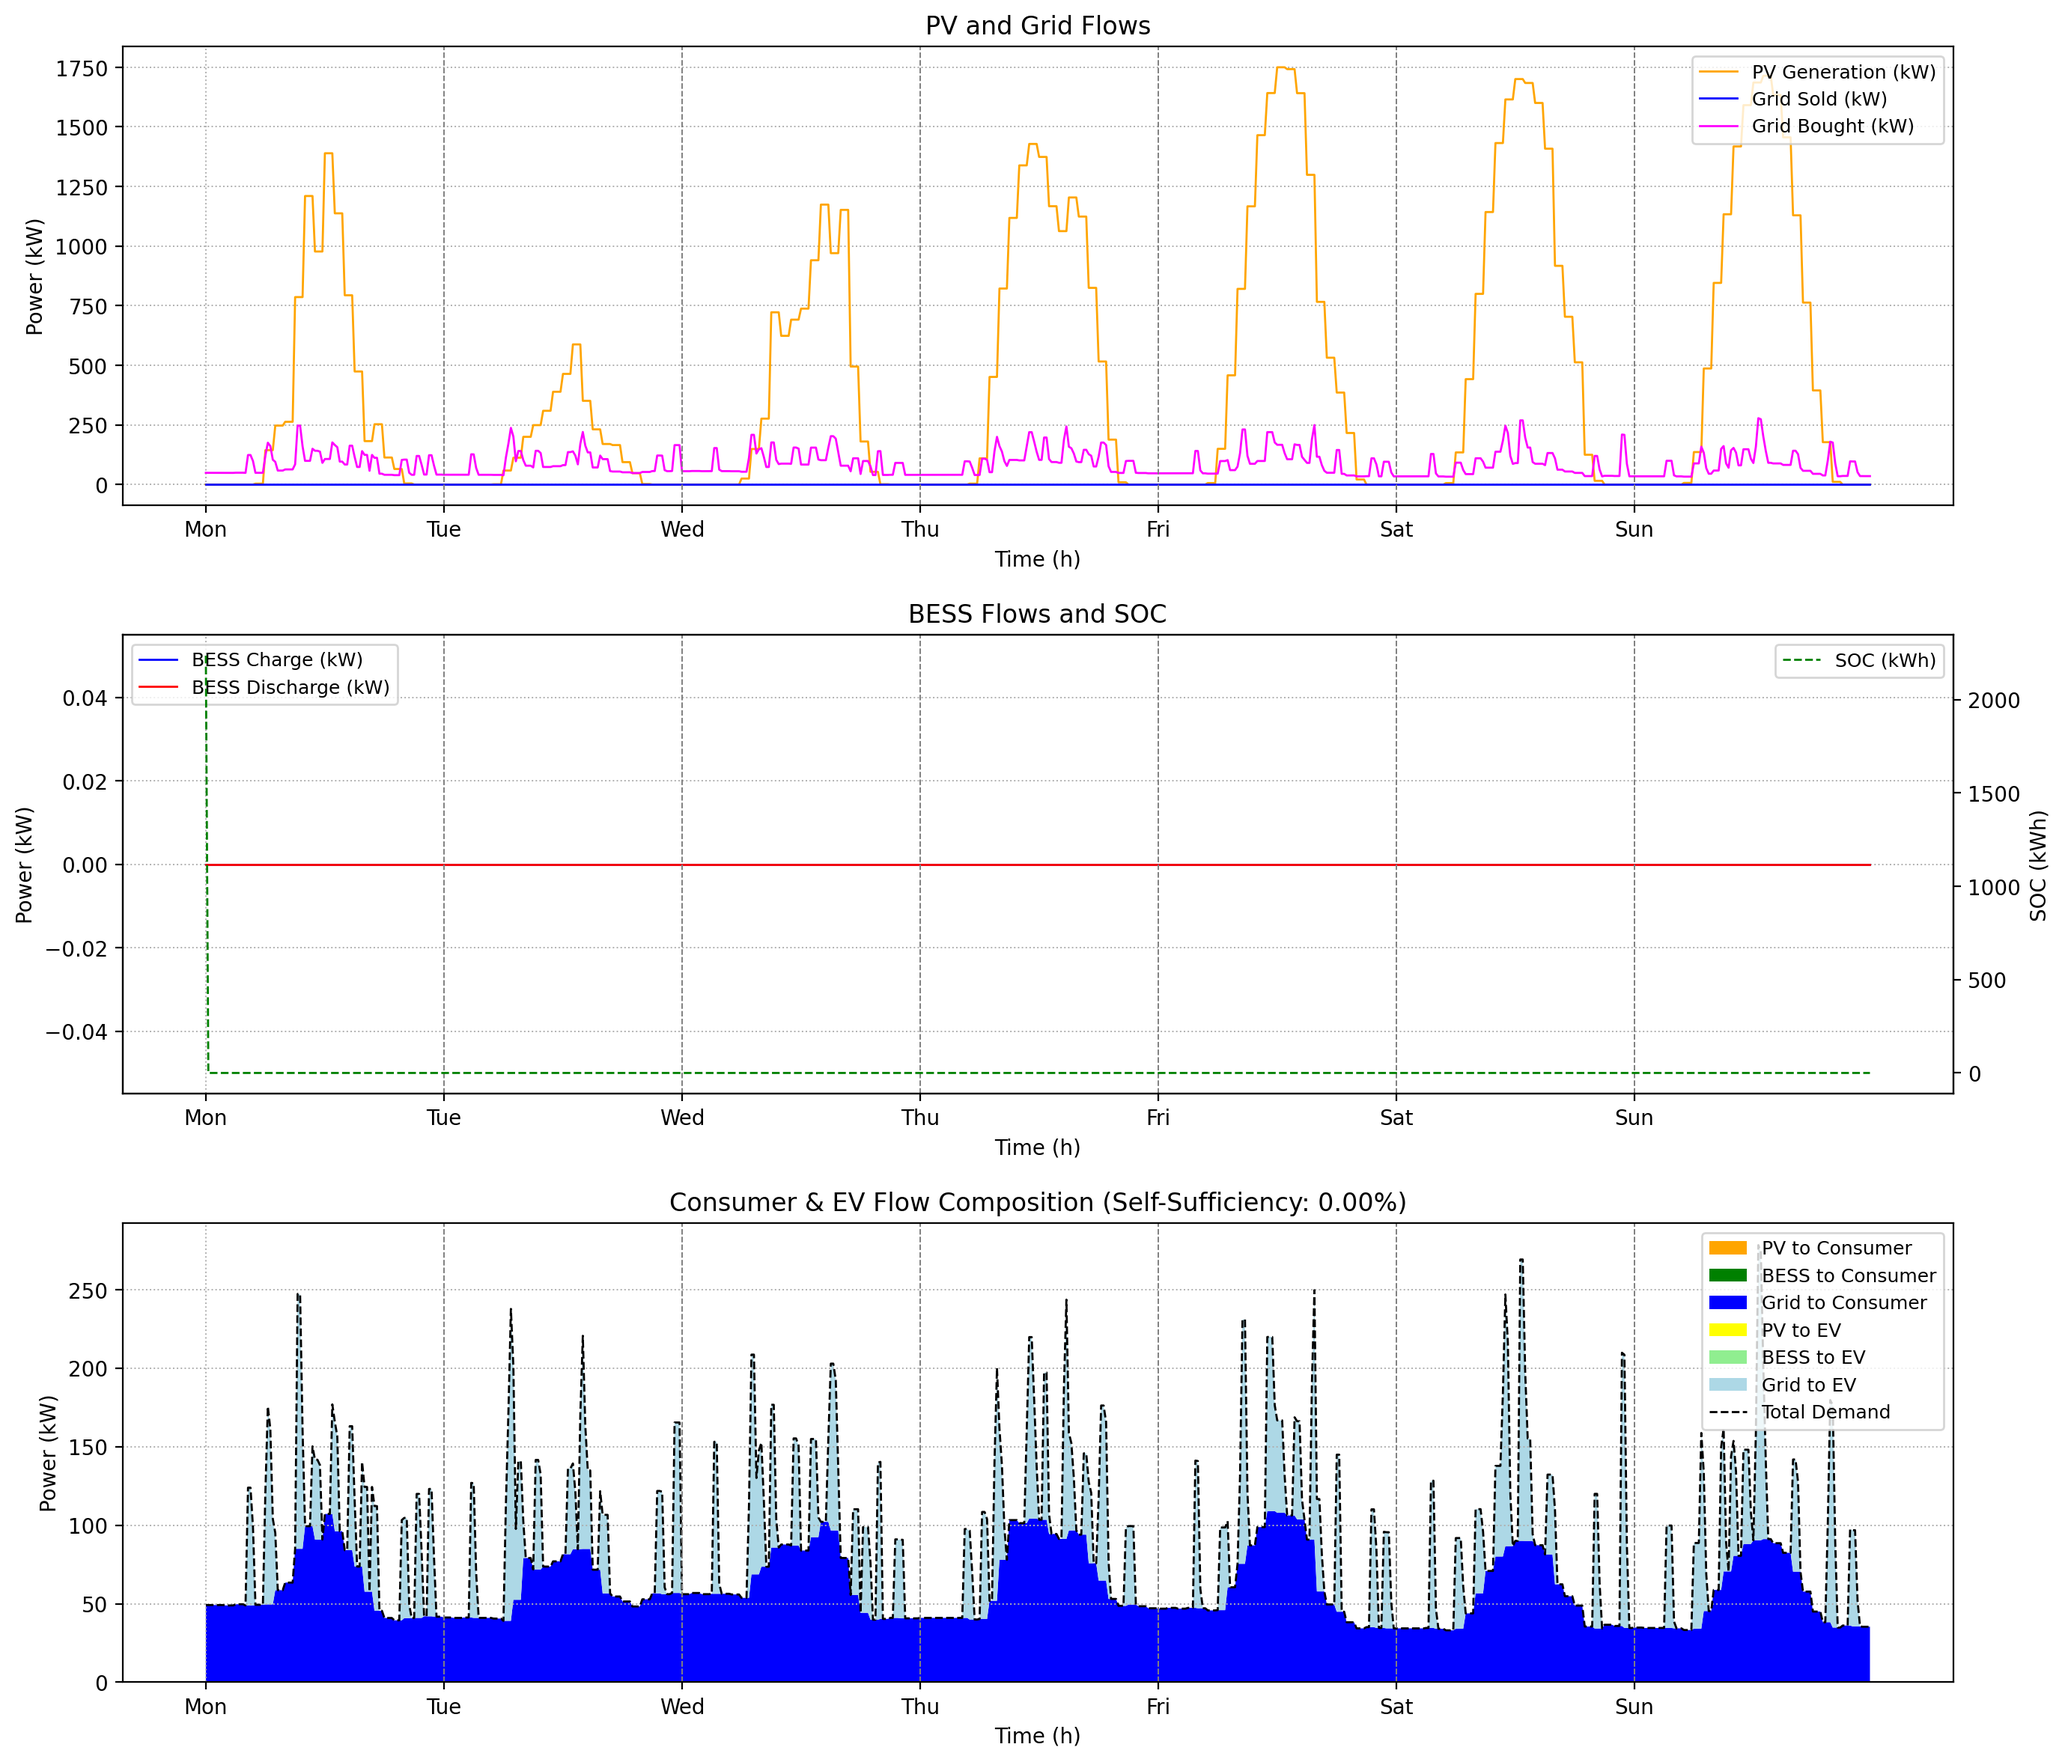
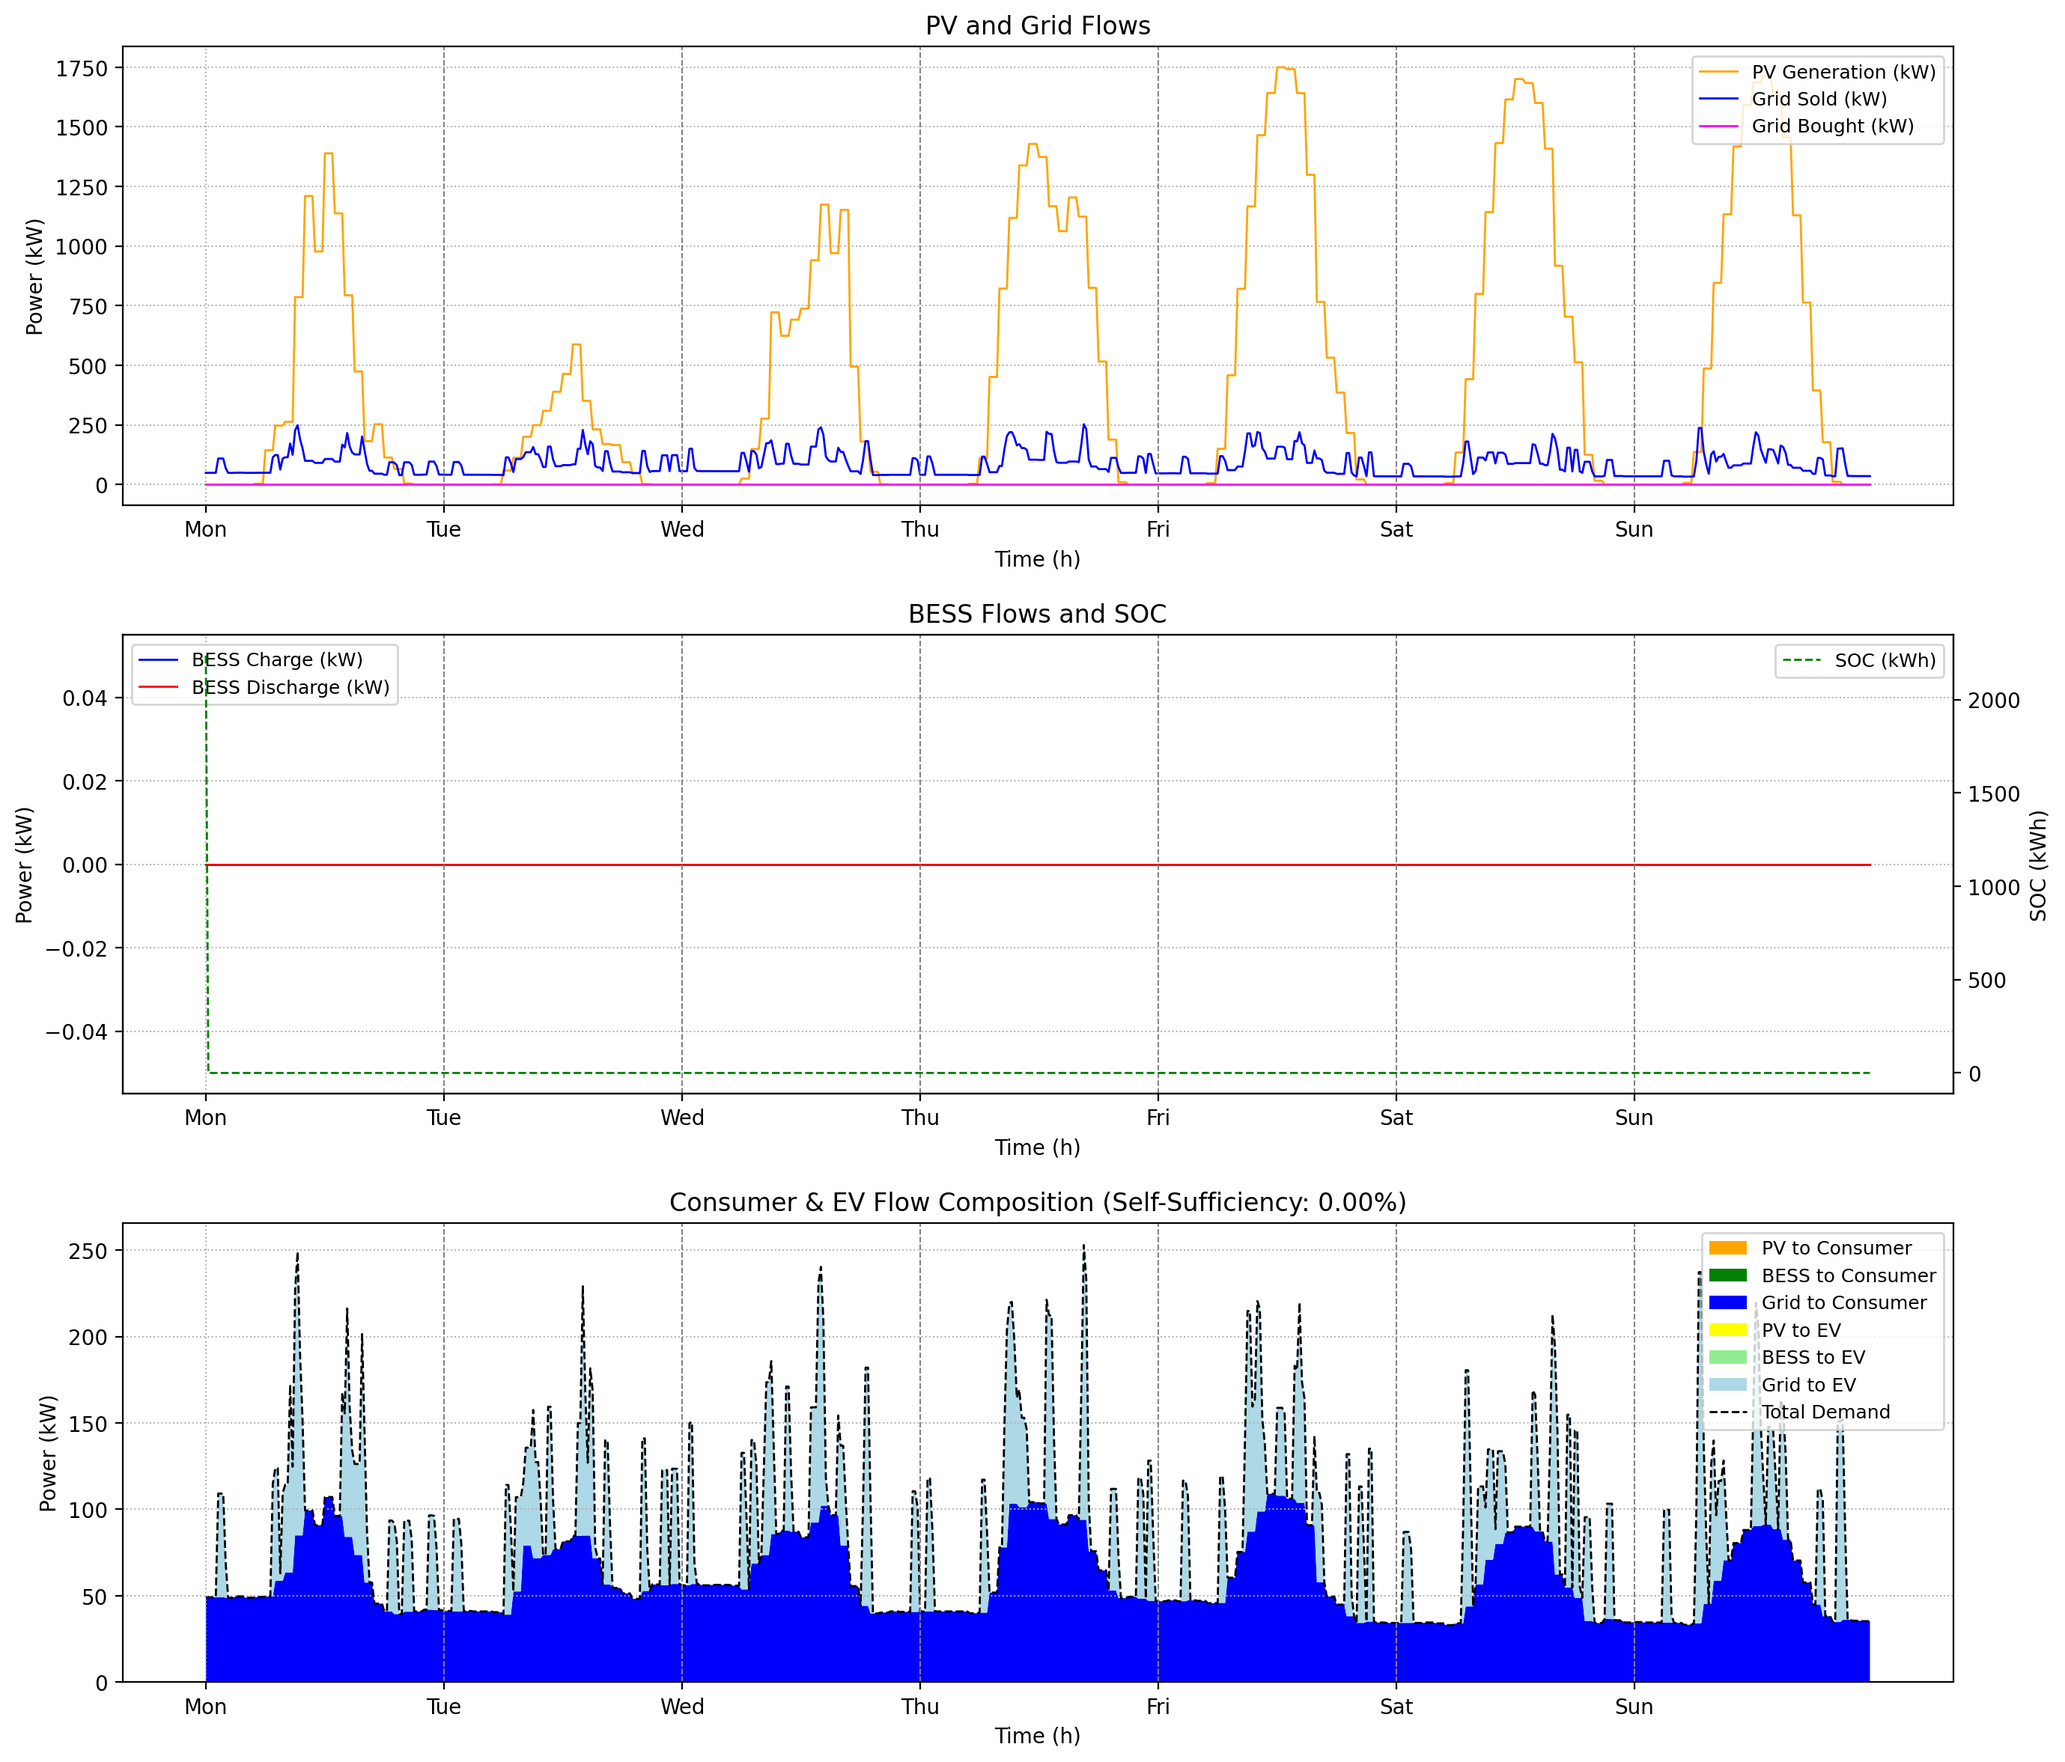
Push

diff --git a/Computing Files/mpc.py b/Computing Files/mpc.py
@@ -39,62 +39,74 @@ class MPC:
         # Add buses
         n.add("Bus", "AC")
         n.add("Bus", "DC")
+        n.add("Bus", "Grid")
 
-        # Add DC/AC converter (trafo)
-        n.add("Link", "DC_AC_Converter", bus0="DC", bus1="AC", p_nom=self.bess_power_limit*2, efficiency=0.98)
+        # Add DC/AC converter (trafo) with zero marginal cost
+        n.add("Link", "DC_AC_Converter", bus0="DC", bus1="AC", p_nom=self.bess_power_limit*2, efficiency=0.98, marginal_cost=0)
 
-        # Add PV generator (DC bus)
-        n.add("Generator", "PV", bus="DC", p_nom=max(pv_forecast), p_max_pu=pv_forecast/np.max(pv_forecast), marginal_cost=lcoe_pv)
+        # Add PV generator (DC bus) with zero marginal cost
+        n.add("Generator", "PV", bus="DC", p_nom=max(pv_forecast), p_max_pu=pv_forecast/np.max(pv_forecast), marginal_cost=0)
 
-        # Add BESS (DC bus) with zero marginal cost to enable arbitrage
+        # Add BESS (DC bus) with zero marginal cost
         n.add("StorageUnit", "BESS", bus="DC",
               p_nom=self.bess_power_limit,
               max_hours=self.bess_capacity/self.bess_power_limit,
               efficiency_store=self.eta_charge,
               efficiency_dispatch=self.eta_discharge,
-              marginal_cost=0,  # Set to zero to allow arbitrage
+              marginal_cost=0,  # Set to zero to allow full arbitrage
               state_of_charge_initial=soc/self.bess_capacity)
 
-        # Add grid import/export (AC bus) with scalar marginal_cost
-        n.add("Generator", "Grid_Import", bus="AC", p_nom=1e6, marginal_cost=0)
-        n.add("Generator", "Grid_Export", bus="AC", p_nom=1e6, marginal_cost=0)
+        # Add grid import/export as Links to Grid bus
+        n.add("Link", "Grid_Import", bus0="Grid", bus1="AC", p_nom=1e6, efficiency=1.0, marginal_cost=buy_forecast)
+        n.add("Link", "Grid_Export", bus0="AC", bus1="Grid", p_nom=1e6, efficiency=1.0, marginal_cost=-sell_forecast)
+
+        # Add infinite generator at Grid bus (reference)
+        n.add("Generator", "Grid_Source", bus="Grid", p_nom=1e6, marginal_cost=0)
 
         # Add consumer and EV loads (AC bus) with scalar p_set
         n.add("Load", "Consumer", bus="AC", p_set=0)
         n.add("Load", "EV", bus="AC", p_set=0)
 
-        # Assign time series to generators and loads
-        n.generators_t.marginal_cost.loc[:, "Grid_Import"] = buy_forecast
-        n.generators_t.marginal_cost.loc[:, "Grid_Export"] = -sell_forecast
+        # Assign time series to loads
         n.loads_t.p_set.loc[:, "Consumer"] = demand_forecast
         n.loads_t.p_set.loc[:, "EV"] = ev_forecast
 
         # Run linear optimal power flow (LOPF)
         n.optimize.create_model()
-        n.optimize.solve_model(solver_name="gurobi", verborse=True, MIPGap=0.025)
+        n.optimize.solve_model(solver_name="gurobi")
 
-        # Extract results for the first step (MPC receding horizon)
-        pv_to_dc = n.generators_t.p["PV"].values[0]
-        bess_to_dc = n.storage_units_t.p["BESS"].values[0]
-        grid_import = n.generators_t.p["Grid_Import"].values[0]
-        grid_export = n.generators_t.p["Grid_Export"].values[0]
+        # Extract flows for the first step (MPC receding horizon)
+        pv_gen = n.generators_t.p["PV"].values[0]
+        bess_dispatch = n.storage_units_t.p["BESS"].values[0]  # +ve: discharge, -ve: charge
+        soc_next = n.storage_units_t.state_of_charge["BESS"].values[1] * self.bess_capacity if len(n.storage_units_t.state_of_charge["BESS"]) > 1 else soc
+        link_dc_to_ac = n.links_t.p0["DC_AC_Converter"].values[0]  # Power from DC to AC (positive: DC->AC, negative: AC->DC)
+        grid_import = n.links_t.p0["Grid_Import"].values[0]  # Power from Grid to AC (positive: import)
+        grid_export = n.links_t.p0["Grid_Export"].values[0]  # Power from AC to Grid (positive: export)
         consumer_load = n.loads_t.p["Consumer"].values[0]
         ev_load = n.loads_t.p["EV"].values[0]
-        soc_next = n.storage_units_t.state_of_charge["BESS"].values[1] * self.bess_capacity if len(n.storage_units_t.state_of_charge["BESS"]) > 1 else soc
 
-        # For compatibility with the rest of the code, map flows to expected outputs
+        # Map physical flows at the inverter (AC) bus
+        total_ac_demand = consumer_load + ev_load
+        dc_to_ac_available = max(link_dc_to_ac, 0)  # Only positive flow (DC->AC)
+        pv_bess_to_consumer = min(dc_to_ac_available, consumer_load)
+        pv_bess_to_ev = min(max(0, dc_to_ac_available - pv_bess_to_consumer), ev_load)
+        pv_bess_to_grid = max(0, dc_to_ac_available - pv_bess_to_consumer - pv_bess_to_ev)
+        grid_to_consumer = max(0, consumer_load - pv_bess_to_consumer)
+        grid_to_ev = max(0, ev_load - pv_bess_to_ev)
+
         return {
-            'P_BESS': bess_to_dc,
+            'P_BESS': bess_dispatch,
             'SOC_next': soc_next,
-            'pv_to_consumer': min(pv_to_dc, consumer_load),
-            'pv_to_ev': min(pv_to_dc - min(pv_to_dc, consumer_load), ev_load),
-            'bess_to_consumer': 0,  # Not directly tracked in PyPSA, can be inferred from storage dispatch if needed
-            'bess_to_ev': 0,        # Not directly tracked in PyPSA, can be inferred from storage dispatch if needed
-            'bess_to_grid': 0,      # Not directly tracked in PyPSA, can be inferred from storage dispatch if needed
-            'pv_to_bess': 0,        # Not directly tracked in PyPSA, can be inferred from storage charging if needed
-            'pv_to_grid': max(0, pv_to_dc - consumer_load - ev_load),
-            'grid_to_consumer': max(0, consumer_load - pv_to_dc),
-            'grid_to_ev': max(0, ev_load - max(0, pv_to_dc - consumer_load)),
-            'grid_to_bess': 0,      # Not directly tracked in PyPSA, can be inferred from storage charging if needed
+            'P_BESS_discharge': np.maximum(bess_dispatch, 0),
+            'P_BESS_charge': np.abs(np.minimum(bess_dispatch, 0)),
+            'P_PV_gen': pv_gen,
+            'P_link_dc_to_ac': link_dc_to_ac,
+            'P_grid_import': grid_import,
+            'P_grid_export': grid_export,
+            'pv_bess_to_consumer': pv_bess_to_consumer,
+            'pv_bess_to_ev': pv_bess_to_ev,
+            'pv_bess_to_grid': pv_bess_to_grid,
+            'grid_to_consumer': grid_to_consumer,
+            'grid_to_ev': grid_to_ev,
             'slack': 0.0
         }

diff --git a/Computing Files/main_Optimization.py b/Computing Files/main_Optimization.py
@@ -43,6 +43,16 @@ mpc_controller = mpc.MPC(
 # Initialize arrays including EV-related variables
 soc_actual = np.zeros(data['n_steps'] + 1)
 soc_actual[0] = data['soc_initial']
+P_BESS_vals = np.zeros(data['n_steps'])
+P_BESS_discharge_vals = np.zeros(data['n_steps'])
+P_BESS_charge_vals = np.zeros(data['n_steps'])
+P_PV_gen_vals = np.zeros(data['n_steps'])
+P_link_dc_to_ac_vals = np.zeros(data['n_steps'])
+P_grid_import_vals = np.zeros(data['n_steps'])
+P_grid_export_vals = np.zeros(data['n_steps'])
+P_grid_consumer_vals = np.zeros(data['n_steps'])
+P_grid_ev_vals = np.zeros(data['n_steps'])
+# Old-style arrays for fallback and post-processing
 P_PV_consumer_vals = np.zeros(data['n_steps'])
 P_PV_ev_vals = np.zeros(data['n_steps'])
 P_PV_BESS_vals = np.zeros(data['n_steps'])
@@ -50,8 +60,6 @@ P_PV_grid_vals = np.zeros(data['n_steps'])
 P_BESS_consumer_vals = np.zeros(data['n_steps'])
 P_BESS_ev_vals = np.zeros(data['n_steps'])
 P_BESS_grid_vals = np.zeros(data['n_steps'])
-P_grid_consumer_vals = np.zeros(data['n_steps'])
-P_grid_ev_vals = np.zeros(data['n_steps'])
 P_grid_BESS_vals = np.zeros(data['n_steps'])
 
 # Define forecast padding helper
@@ -93,42 +101,30 @@ for t in range(data['n_steps']):
         P_grid_BESS_vals[t] = 0
         soc_actual[t + 1] = soc_actual[t]
     else:
-        P_PV_consumer_vals[t] = control['pv_to_consumer']
-        P_PV_ev_vals[t] = control['pv_to_ev']
-        P_PV_BESS_vals[t] = control['pv_to_bess']
-        P_PV_grid_vals[t] = control['pv_to_grid']
-        P_BESS_consumer_vals[t] = control['bess_to_consumer']
-        P_BESS_ev_vals[t] = control['bess_to_ev']
-        P_BESS_grid_vals[t] = control['bess_to_grid']
+        P_BESS_vals[t] = control['P_BESS']
+        P_BESS_discharge_vals[t] = control['P_BESS_discharge']
+        P_BESS_charge_vals[t] = control['P_BESS_charge']
+        P_PV_gen_vals[t] = control['P_PV_gen']
+        P_link_dc_to_ac_vals[t] = control['P_link_dc_to_ac']
+        P_grid_import_vals[t] = control['P_grid_import']
+        P_grid_export_vals[t] = control['P_grid_export']
+        # Use new keys for physical flows
+        P_PV_consumer_vals[t] = control['pv_bess_to_consumer']
+        P_PV_ev_vals[t] = control['pv_bess_to_ev']
+        P_PV_grid_vals[t] = control['pv_bess_to_grid']
         P_grid_consumer_vals[t] = control['grid_to_consumer']
         P_grid_ev_vals[t] = control['grid_to_ev']
-        P_grid_BESS_vals[t] = control['grid_to_bess']
         soc_actual[t + 1] = control['SOC_next']
 
-# After MPC computation, validate results structure
-required_result_keys = ['pv_to_consumer', 'pv_to_ev', 'bess_to_ev', 'grid_to_ev']
-if DEBUG and control is not None:
-    missing_keys = [key for key in required_result_keys if key not in control]
-    if missing_keys:
-        print(f"Warning: Missing keys in MPC result: {missing_keys}")
-
-# Prepare day labels for plotting
-
-days = ['Mon', 'Tue', 'Wed', 'Thu', 'Fri', 'Sat', 'Sun']
-data['day_labels'] = [days[(data['start_weekday'] + d) % 7] for d in range(7)]
-
-# Add suffix to distinguish plots
-output_dir = os.path.join(os.path.dirname(os.path.abspath(__file__)), '..', 'Output Files')
-os.makedirs(output_dir, exist_ok=True)
-data['plot_suffix'] = ''  # No suffix for main optimization
-
-# Initialize slack_vals as zeros for compatibility
-slack_vals = np.zeros(data['n_steps'])
+# After MPC computation, map new flows to old-style arrays for post-processing
+P_BESS_grid_vals = P_BESS_discharge_vals
+P_BESS_consumer_vals = np.zeros(data['n_steps'])
+P_BESS_ev_vals = np.zeros(data['n_steps'])
 
 # Compile results
-data['plot_suffix'] = ''
+slack_vals = np.zeros(data['n_steps'])
 results = {
-    'slack_vals': slack_vals,  # Add slack to results first
+    'slack_vals': slack_vals,
     'P_PV_consumer_vals': P_PV_consumer_vals,
     'P_PV_ev_vals': P_PV_ev_vals,
     'P_PV_BESS_vals': P_PV_BESS_vals,
@@ -140,12 +136,22 @@ results = {
     'P_grid_ev_vals': P_grid_ev_vals,
     'P_grid_BESS_vals': P_grid_BESS_vals,
     'SOC_vals': soc_actual,
-    'P_BESS_charge': P_PV_BESS_vals + P_grid_BESS_vals,
-    'P_BESS_discharge': P_BESS_consumer_vals + P_BESS_ev_vals + P_BESS_grid_vals,
-    'P_grid_sold': P_PV_grid_vals + P_BESS_grid_vals,
-    'P_grid_bought': P_grid_consumer_vals + P_grid_ev_vals + P_grid_BESS_vals
+    'P_BESS_charge': P_BESS_charge_vals,
+    'P_BESS_discharge': P_BESS_discharge_vals,
+    'P_grid_sold': P_grid_export_vals,
+    'P_grid_bought': P_grid_import_vals
 }
 revenues = post_process.compute_revenues(results, data)
 post_process.print_results(revenues, results, data)
+
+# Add suffix to distinguish plots
+output_dir = os.path.join(os.path.dirname(os.path.abspath(__file__)), '..', 'Output Files')
+os.makedirs(output_dir, exist_ok=True)
+data['plot_suffix'] = ''  # No suffix for main optimization
+
+# Prepare day labels for plotting (must be before plotting calls)
+days = ['Mon', 'Tue', 'Wed', 'Thu', 'Fri', 'Sat', 'Sun']
+data['day_labels'] = [days[(data['start_weekday'] + d) % 7] for d in range(7)]
+
 plots.plot_energy_flows(results, data, revenues, save_dir=output_dir)
 plots.plot_financials(revenues, data, save_dir=output_dir)
